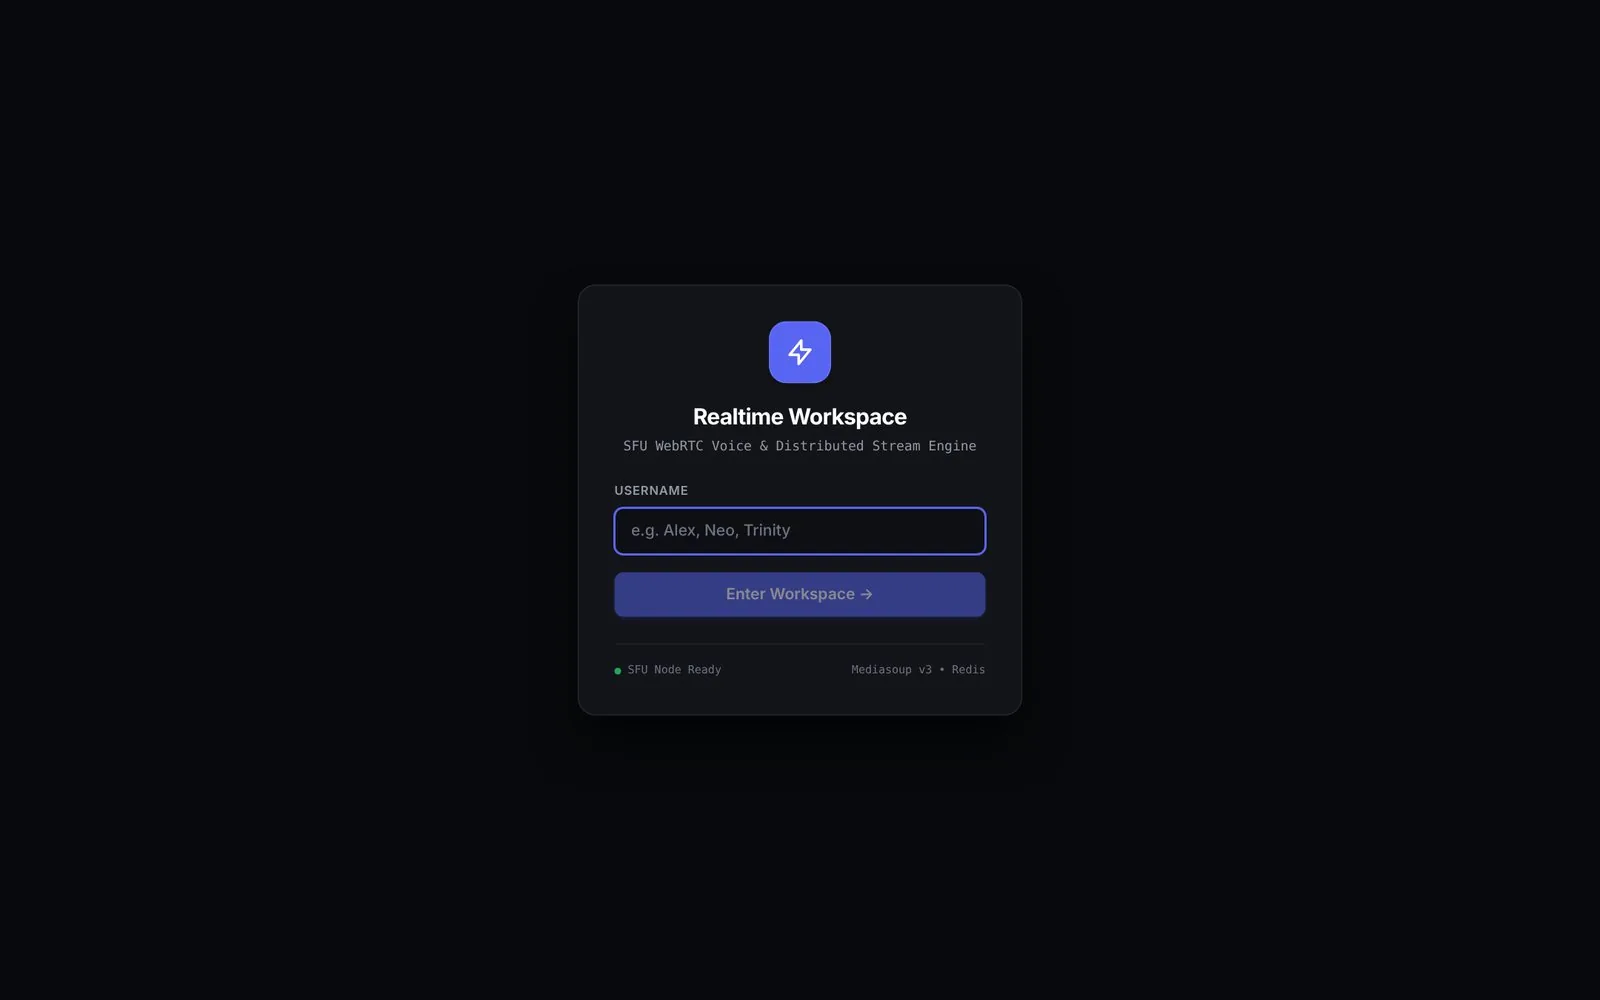
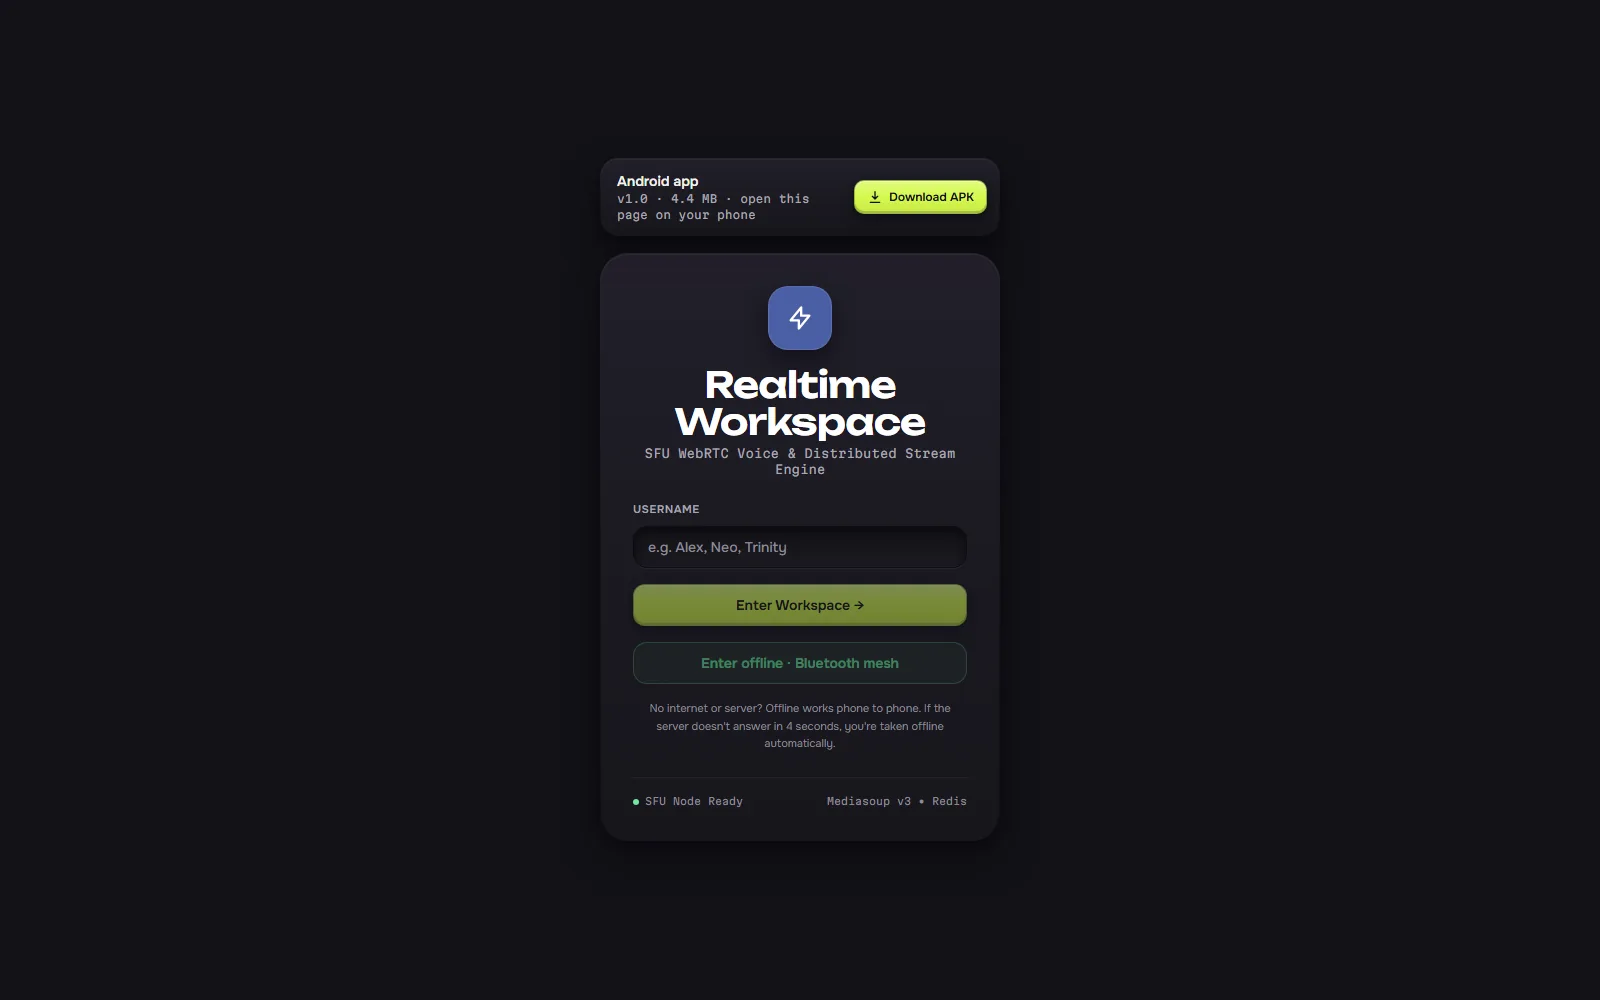
feat: update projects with Oct 2026 progress and fresh screenshots
- Myriad Voices: offline Bluetooth mesh, Android/iOS/Windows apps, new stats
- Netz: v2 rebuild (34 solvers, handwriting whiteboard, notes, tasks/streaks)
- PactDoc: sealed PDFs, audit log, teams, API, 525 server tests
- Replace all dossier screenshots with current captures (5 per app)
- Gallery smoke test reads the screenshot count from content

diff --git a/content/gu.ts b/content/gu.ts
@@ -90,12 +90,13 @@ export const GU: Gu[] = [
       ],
       shots: [
         { src: "/shots/discord/chat.webp", caption: "Chat stream", width: 1600, height: 1000 },
+        { src: "/shots/discord/mesh.webp", caption: "Offline mesh", width: 1600, height: 1000 },
+        { src: "/shots/discord/dashboard.webp", caption: "Hub & APK download", width: 1600, height: 1000 },
         { src: "/shots/discord/voice.webp", caption: "Voice stage", width: 1600, height: 1000 },
-        { src: "/shots/discord/dashboard.webp", caption: "Workspace", width: 1600, height: 1000 },
         { src: "/shots/discord/login.webp", caption: "Entry", width: 1600, height: 1000 },
       ],
       shotsHost: "demo-discord-seven.vercel.app",
-      shotsNote: "Screens from the app’s own frontend; chat messages are sample data.",
+      shotsNote: "Screens from the live app (Nov 2026); chat messages are sample data, and the mesh is the in-browser simulation.",
       killerMove: {
         name: "Unbroken Chorus",
         withName: "Silent Link Gu",
@@ -160,16 +161,17 @@ export const GU: Gu[] = [
           title: "Netz v2",
           desc: "Oct 2026: handwriting whiteboard, notes workspace, 34 solvers, and tasks, streaks, gems and medals synced to accounts.",
         },
-        { kind: "next", title: "Launch v2", desc: "Switch on Google sign-in and Razorpay Pro plans, then release." },
+        { kind: "next", title: "Pro plans", desc: "v2 is live; next, switch on Google sign-in and Razorpay Pro plans." },
       ],
       shots: [
-        { src: "/shots/netz/newton.webp", caption: "Newton interpolation", width: 1600, height: 739 },
-        { src: "/shots/netz/algo.webp", caption: "Bisection method", width: 1440, height: 900 },
-        { src: "/shots/netz/home.webp", caption: "Home", width: 1440, height: 900 },
-        { src: "/shots/netz/mobile.webp", caption: "Mobile", width: 390, height: 844 },
+        { src: "/shots/netz/home.webp", caption: "Home", width: 1600, height: 1000 },
+        { src: "/shots/netz/solver.webp", caption: "Newton-Raphson solver", width: 1600, height: 1000 },
+        { src: "/shots/netz/notes.webp", caption: "Notes with live solvers", width: 1600, height: 1000 },
+        { src: "/shots/netz/profile.webp", caption: "Tasks, streaks & robot", width: 1600, height: 1000 },
+        { src: "/shots/netz/mobile.webp", caption: "Mobile", width: 412, height: 838 },
       ],
       shotsHost: "netz-ruby.vercel.app",
-      shotsNote: "Screens captured from Netz.",
+      shotsNote: "Screens captured from the live site, Nov 2026.",
       killerMove: {
         name: "Ten Thousand Solutions",
         withName: "Elimination Gu",
@@ -242,11 +244,12 @@ export const GU: Gu[] = [
       shots: [
         { src: "/shots/pactdoc/landing.webp", caption: "Landing", width: 1600, height: 1000 },
         { src: "/shots/pactdoc/dashboard.webp", caption: "Document vault", width: 1600, height: 1000 },
-        { src: "/shots/pactdoc/templates.webp", caption: "Templates", width: 1600, height: 1000 },
-        { src: "/shots/pactdoc/verify.webp", caption: "Verify", width: 1600, height: 1000 },
+        { src: "/shots/pactdoc/templates.webp", caption: "73 ready-made templates", width: 1600, height: 1000 },
+        { src: "/shots/pactdoc/signing.webp", caption: "Signing in Hindi", width: 1600, height: 1000 },
+        { src: "/shots/pactdoc/pricing.webp", caption: "Rupee pricing", width: 1600, height: 1000 },
       ],
       shotsHost: "signaturly.vercel.app",
-      shotsNote: "Screens from the product’s own user guide.",
+      shotsNote: "Screens from the current build (Nov 2026), run locally with sample documents.",
       killerMove: {
         name: "Sealed Contract",
         withName: "Payment infrastructure (Docnish)",

diff --git a/tests/smoke.spec.ts b/tests/smoke.spec.ts
@@ -1,4 +1,5 @@
 import { expect, test } from "@playwright/test";
+import { getGu } from "../content/gu";
 
 test.describe("home", () => {
   test("renders the hero, every section and no horizontal scroll", async ({ page }) => {
@@ -87,7 +88,7 @@ test.describe("dossiers", () => {
       await page.goto(`/gu/${slug}`);
       await expect(page.getByRole("heading", { level: 1 })).toBeVisible();
       const thumbs = page.getByRole("group", { name: "Choose a screen" }).getByRole("button");
-      await expect(thumbs).toHaveCount(4);
+      await expect(thumbs).toHaveCount(getGu(slug)!.dossier!.shots.length);
       await thumbs.nth(2).click();
       await expect(thumbs.nth(2)).toHaveAttribute("aria-pressed", "true");
       await expect(page.getByRole("link", { name: /Next Gu/ })).toBeVisible();
